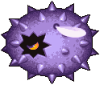
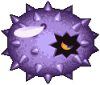
arreglando herencia

diff --git a/docs/Prota.js b/docs/Prota.js
@@ -54,7 +54,7 @@ export default class Prota extends Personaje {
         this.j=scene.input.keyboard.addKey("J"); //  dash
 
         //ponemos un maximo de velocidades
-        this.body.setMaxVelocity(500,800)
+        this.body.setMaxVelocity(500,800);
 
 
     }
@@ -272,33 +272,9 @@ export default class Prota extends Personaje {
             this.yoMismo.setFlipX(false);
         }
         this.direction.x = nx;
-        // this.direction.x = nx;
-        // this.direction.y = ny;
-    }
-    // changeDirectionY(ny){
         
-    //     this.direction.y = ny;
-    // }
-    // stop(){
-    //     this.body.setVelocityX(0);
-    // }
-    // horizontalMove(){
-    //     this.body.setVelocityX(this.direction.x * this.speed);
-    // }
-    // verticalMove(){
-    //     this.body.setVelocityY(this.direction.y * this.speed);
-    // }
-
-    //getters
-    getPoints(){
-        return this.points;
     }
-    getX(){
-        return this.x;
-    }
-    getY(){
-        return this.y;
-    }
+    
     //para saber si estas mirando al enemigo o no
     getFlipped(){
         return this.yoMismo.flipX;

diff --git a/docs/Reizen.js b/docs/Reizen.js
@@ -3,6 +3,7 @@ export default class Reizen extends Enemy  {
     constructor(scene, x,y, speed, dir, points, damage, lives,  sprite){
         super(scene,x,y, speed, dir, points, damage,lives, sprite);
         this.startMove=false;
+        //this.yoMismo=sprite;
       }
 
     preUpdate(){
@@ -18,10 +19,15 @@ export default class Reizen extends Enemy  {
             if(this.direction.x===1){
                 this.x-=30;
                 this.changeDirectionX(-1);
+                this.yoMismo.setFlipX(true);
+
             }
             else{
                 this.x+=30;
+
                 this.changeDirectionX(1);
+                super.yoMismo.setFlipX(false);
+
             }
         }
         super.colisionPlayer();   

diff --git a/docs/Personaje.js b/docs/Personaje.js
@@ -20,8 +20,16 @@ export default class Personaje extends Phaser.GameObjects.Container{
     changeDirectionX(nx){
         // this.direction.x = nx;
         // this.direction.y = ny;
-       
+        if(nx===-1){
+           
+            this.yoMismo.setFlipX(true);
+        }
+        else if(nx===1){
+           
+            this.yoMismo.setFlipX(false);
+        }
         this.direction.x = nx;
+        //this.direction.x = nx;
     }
     changeDirectionY(ny){
         this.direction.y = ny;

diff --git a/docs/Rinne.js b/docs/Rinne.js
@@ -11,6 +11,7 @@ export default class Rinne extends Zoppo  {
         if(this.startMove){
             this.noFloorMove=30;//para desplazarlo un poco y que nocaiga
             super.preUpdate();
+            
         } 
         //para que empiece a moverse hacia donde está el jugador
         else if(!this.startMove && this.y-this.scene.player.y<=50){
